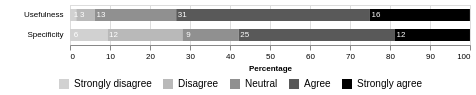
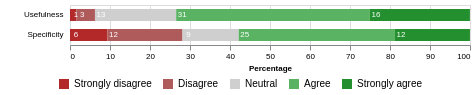
figure updated

diff --git a/visualization/visualization_per_br.py b/visualization/visualization_per_br.py
@@ -19,7 +19,10 @@ def main(args):
             "No",
             "Yes"
         ],
-        range=['#d1d1d1', '#b9b9b9', '#909090', '#595959', '#000000', '#e4e4e4', '#1a1a1a', ]
+        range=[
+            '#b32929', '#b05b5b', '#CFCFCF', '#59B362', '#248F2E',
+            '#bf5b17', '#7fc97f',
+        ]
     )
 
     y_axis = alt.Axis(
@@ -64,7 +67,7 @@ import bokeh.palettes as bp
 if __name__ == '__main__':
     argparser = argparse.ArgumentParser(sys.argv[0])
 
-    print(bp.Greys3)
+    print(bp.Accent7)
 
     argparser.add_argument("--input_file", type=str, default='survey_report.csv')
 

diff --git a/visualization/visualization_specificity_usefulness.py b/visualization/visualization_specificity_usefulness.py
@@ -33,7 +33,9 @@ def main(args):
             "Agree",
             "Strongly agree"
         ],
-        range=['#d1d1d1', '#b9b9b9', '#909090', '#595959', '#000000', ]
+        range=[
+               '#b32929', '#b05b5b', '#CFCFCF', '#59B362', '#248F2E'
+               ]
     )
 
     y_axis = alt.Axis(

diff --git a/visualization/visualization_novelty.py b/visualization/visualization_novelty.py
@@ -20,7 +20,7 @@ def main(args):
             "No",
             "Yes"
         ],
-        range=['#e4e4e4', '#1a1a1a']
+        range=['#bf5b17', '#7fc97f', ]
     )
 
     y_axis = alt.Axis(
